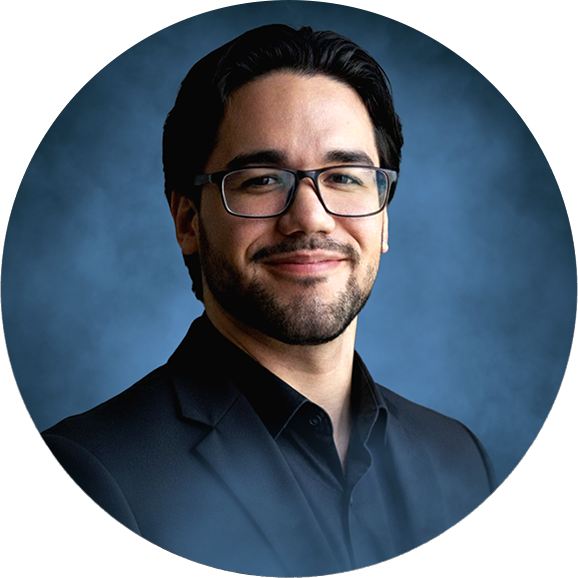
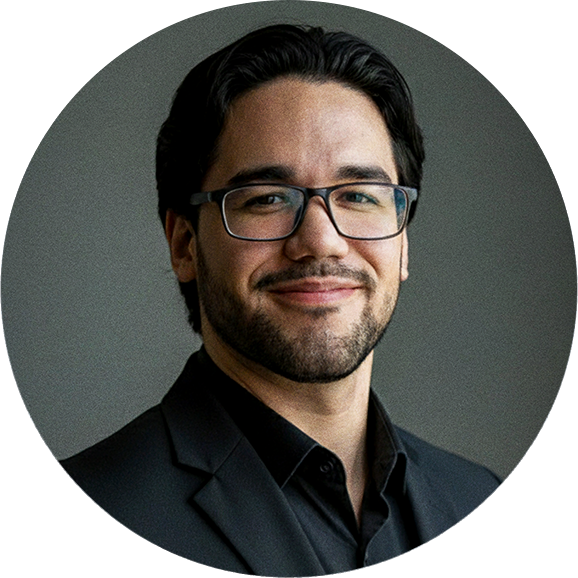
new profile photo

diff --git a/docs/sobre/index.html b/docs/sobre/index.html
@@ -61,7 +61,7 @@ No entanto, em 2021, minha trajetória tomou uma nova direção. Ao ingressar no
                     
                     
                         
-                        <img src="/blogr/img/avatar_hucce5edfdc9ba206f3a82f23accd180fd_434657_300x0_resize_box_3.png" width="300"
+                        <img src="/blogr/img/avatar_hu5ce96d9f6ff0733694d16b15aba9aec3_631233_300x0_resize_box_3.png" width="300"
                             height="300" class="site-logo" loading="lazy" alt="Avatar">
                     
                 

diff --git a/docs/404.html b/docs/404.html
@@ -56,7 +56,7 @@
                     
                     
                         
-                        <img src="/blogr/img/avatar_hucce5edfdc9ba206f3a82f23accd180fd_434657_300x0_resize_box_3.png" width="300"
+                        <img src="/blogr/img/avatar_hu5ce96d9f6ff0733694d16b15aba9aec3_631233_300x0_resize_box_3.png" width="300"
                             height="300" class="site-logo" loading="lazy" alt="Avatar">
                     
                 

diff --git a/docs/arquivos/index.html b/docs/arquivos/index.html
@@ -56,7 +56,7 @@
                     
                     
                         
-                        <img src="/blogr/img/avatar_hucce5edfdc9ba206f3a82f23accd180fd_434657_300x0_resize_box_3.png" width="300"
+                        <img src="/blogr/img/avatar_hu5ce96d9f6ff0733694d16b15aba9aec3_631233_300x0_resize_box_3.png" width="300"
                             height="300" class="site-logo" loading="lazy" alt="Avatar">
                     
                 

diff --git a/docs/categorias/data-science/index.html b/docs/categorias/data-science/index.html
@@ -57,7 +57,7 @@
                     
                     
                         
-                        <img src="/blogr/img/avatar_hucce5edfdc9ba206f3a82f23accd180fd_434657_300x0_resize_box_3.png" width="300"
+                        <img src="/blogr/img/avatar_hu5ce96d9f6ff0733694d16b15aba9aec3_631233_300x0_resize_box_3.png" width="300"
                             height="300" class="site-logo" loading="lazy" alt="Avatar">
                     
                 

diff --git a/docs/categorias/macroeconomia/index.html b/docs/categorias/macroeconomia/index.html
@@ -57,7 +57,7 @@
                     
                     
                         
-                        <img src="/blogr/img/avatar_hucce5edfdc9ba206f3a82f23accd180fd_434657_300x0_resize_box_3.png" width="300"
+                        <img src="/blogr/img/avatar_hu5ce96d9f6ff0733694d16b15aba9aec3_631233_300x0_resize_box_3.png" width="300"
                             height="300" class="site-logo" loading="lazy" alt="Avatar">
                     
                 

diff --git a/docs/categorias/microeconomia/index.html b/docs/categorias/microeconomia/index.html
@@ -57,7 +57,7 @@
                     
                     
                         
-                        <img src="/blogr/img/avatar_hucce5edfdc9ba206f3a82f23accd180fd_434657_300x0_resize_box_3.png" width="300"
+                        <img src="/blogr/img/avatar_hu5ce96d9f6ff0733694d16b15aba9aec3_631233_300x0_resize_box_3.png" width="300"
                             height="300" class="site-logo" loading="lazy" alt="Avatar">
                     
                 

diff --git a/docs/categorias/python/index.html b/docs/categorias/python/index.html
@@ -57,7 +57,7 @@
                     
                     
                         
-                        <img src="/blogr/img/avatar_hucce5edfdc9ba206f3a82f23accd180fd_434657_300x0_resize_box_3.png" width="300"
+                        <img src="/blogr/img/avatar_hu5ce96d9f6ff0733694d16b15aba9aec3_631233_300x0_resize_box_3.png" width="300"
                             height="300" class="site-logo" loading="lazy" alt="Avatar">
                     
                 

diff --git a/docs/categorias/r/index.html b/docs/categorias/r/index.html
@@ -57,7 +57,7 @@
                     
                     
                         
-                        <img src="/blogr/img/avatar_hucce5edfdc9ba206f3a82f23accd180fd_434657_300x0_resize_box_3.png" width="300"
+                        <img src="/blogr/img/avatar_hu5ce96d9f6ff0733694d16b15aba9aec3_631233_300x0_resize_box_3.png" width="300"
                             height="300" class="site-logo" loading="lazy" alt="Avatar">
                     
                 

diff --git a/docs/categories/index.html b/docs/categories/index.html
@@ -56,7 +56,7 @@
                     
                     
                         
-                        <img src="/blogr/img/avatar_hucce5edfdc9ba206f3a82f23accd180fd_434657_300x0_resize_box_3.png" width="300"
+                        <img src="/blogr/img/avatar_hu5ce96d9f6ff0733694d16b15aba9aec3_631233_300x0_resize_box_3.png" width="300"
                             height="300" class="site-logo" loading="lazy" alt="Avatar">
                     
                 

diff --git a/docs/index.html b/docs/index.html
@@ -57,7 +57,7 @@
                     
                     
                         
-                        <img src="/blogr/img/avatar_hucce5edfdc9ba206f3a82f23accd180fd_434657_300x0_resize_box_3.png" width="300"
+                        <img src="/blogr/img/avatar_hu5ce96d9f6ff0733694d16b15aba9aec3_631233_300x0_resize_box_3.png" width="300"
                             height="300" class="site-logo" loading="lazy" alt="Avatar">
                     
                 

diff --git a/docs/p/e-se-o-brasil-jogasse-a-copa-como-nas-eliminatórias/index.html b/docs/p/e-se-o-brasil-jogasse-a-copa-como-nas-eliminatórias/index.html
@@ -59,7 +59,7 @@
                     
                     
                         
-                        <img src="/blogr/img/avatar_hucce5edfdc9ba206f3a82f23accd180fd_434657_300x0_resize_box_3.png" width="300"
+                        <img src="/blogr/img/avatar_hu5ce96d9f6ff0733694d16b15aba9aec3_631233_300x0_resize_box_3.png" width="300"
                             height="300" class="site-logo" loading="lazy" alt="Avatar">
                     
                 

diff --git a/docs/p/felicidade-vs.-crescimento-econômico-mais-dinheiro-significa-mais-bem-estar/index.html b/docs/p/felicidade-vs.-crescimento-econômico-mais-dinheiro-significa-mais-bem-estar/index.html
@@ -59,7 +59,7 @@
                     
                     
                         
-                        <img src="/blogr/img/avatar_hucce5edfdc9ba206f3a82f23accd180fd_434657_300x0_resize_box_3.png" width="300"
+                        <img src="/blogr/img/avatar_hu5ce96d9f6ff0733694d16b15aba9aec3_631233_300x0_resize_box_3.png" width="300"
                             height="300" class="site-logo" loading="lazy" alt="Avatar">
                     
                 
